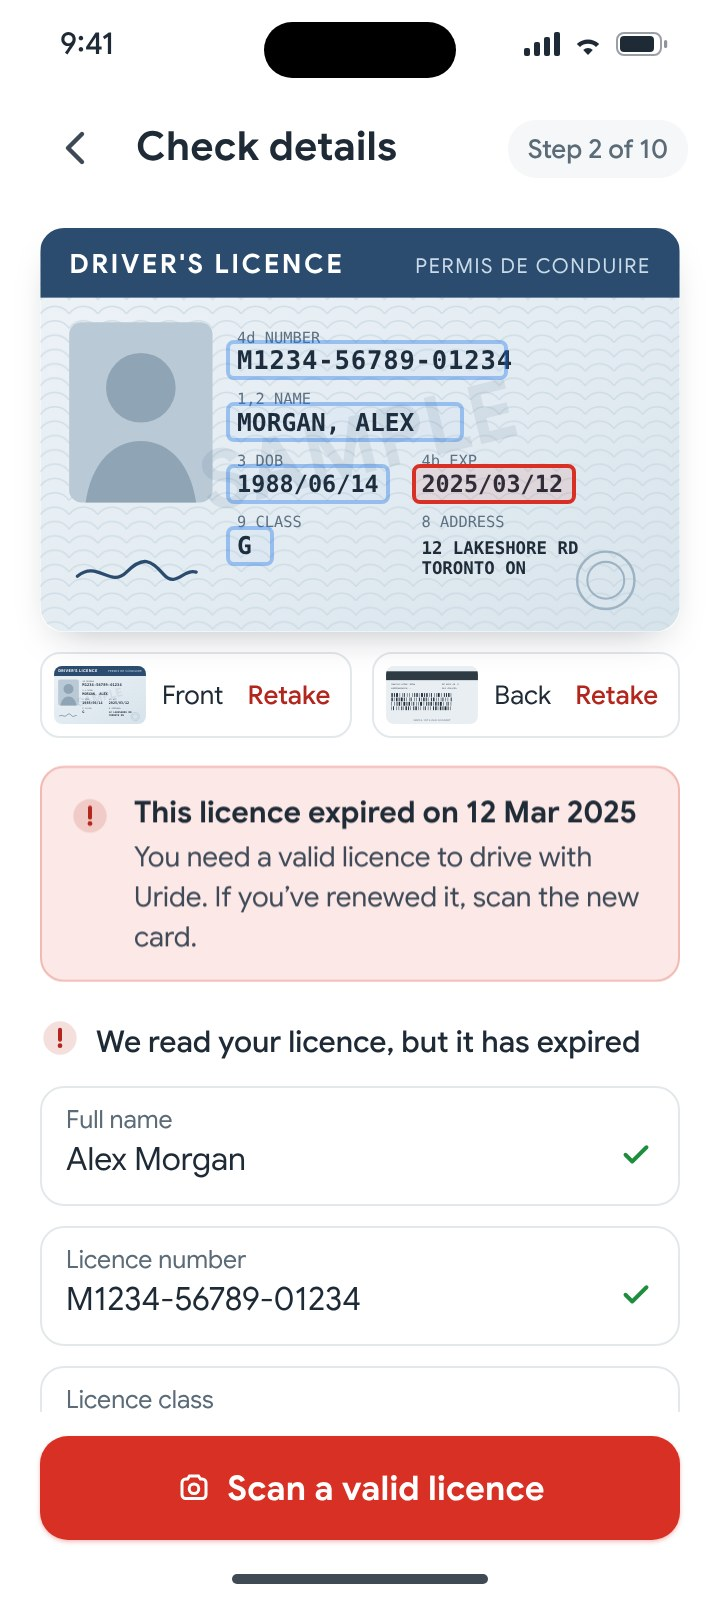
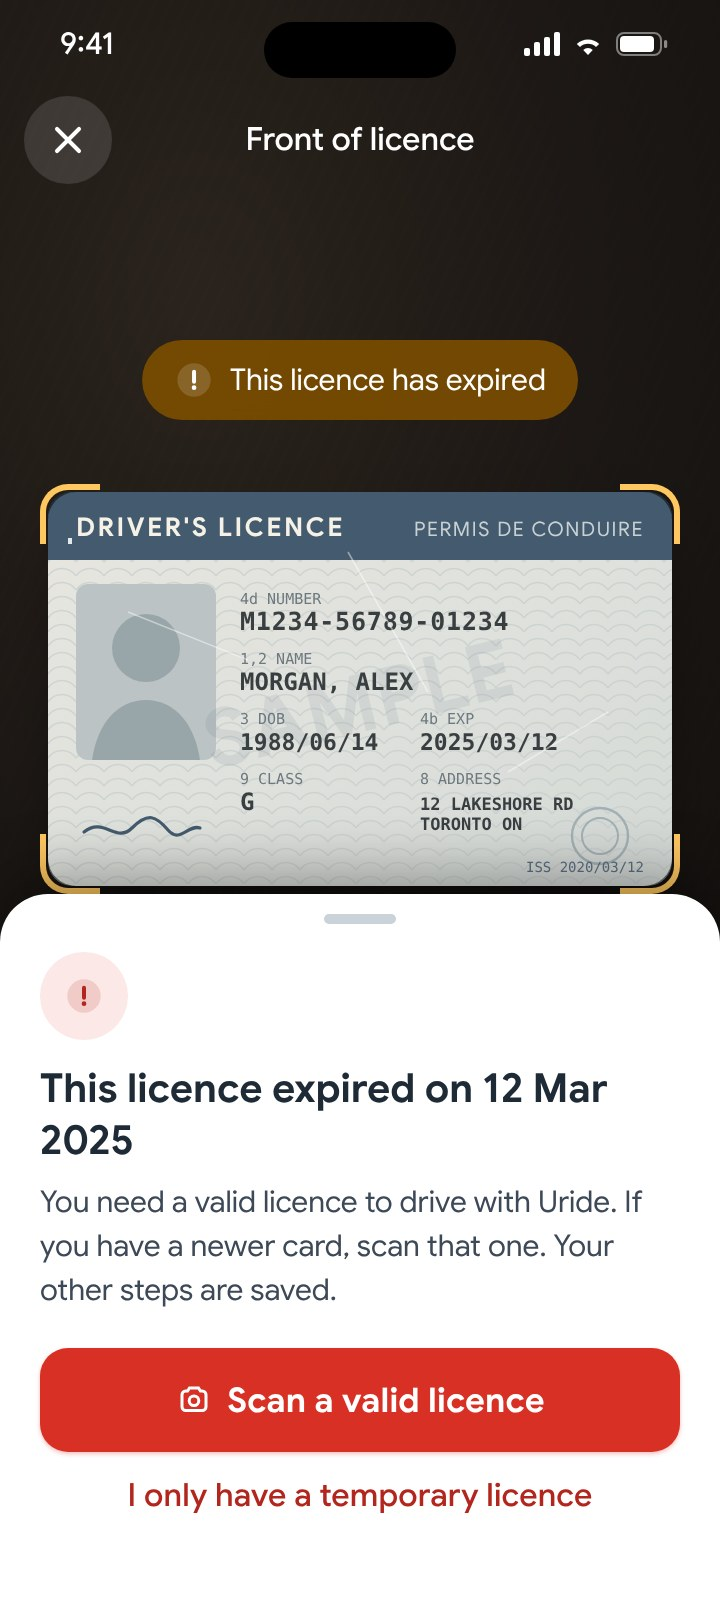
Uride prototype: expired card caught after front photo, hologram reason for unclear digit, Under review screen
Claude-Session: https://claude.ai/code/session_018u1JwWcJ2tKeLwzPZHSzSa

diff --git a/uride-onboarding/index.html b/uride-onboarding/index.html
@@ -75,6 +75,48 @@ input{font:inherit;color:inherit}
 .hole{position:absolute;left:24px;top:var(--gt,228px);width:312px;height:197px;border-radius:14px;box-shadow:0 0 0 1200px rgba(0,0,0,.52);z-index:3;pointer-events:none}
 .item .chev{color:var(--hint);display:flex}
 .item{will-change:transform}
+
+.face .art{position:absolute;inset:0}
+/* expired sheet over the camera */
+.xsheet{position:absolute;left:0;right:0;bottom:0;z-index:30;background:#fff;border-radius:24px 24px 0 0;padding:10px 20px 30px;box-shadow:0 -10px 30px rgba(0,0,0,.35);color:var(--body)}
+.xsheet .grab{width:36px;height:5px;border-radius:3px;background:var(--line-strong);margin:0 auto 14px}
+.xsheet .xs-ic{width:44px;height:44px;border-radius:50%;background:var(--red-soft);color:var(--red-text);display:grid;place-items:center;margin-bottom:12px}
+.xsheet h3{font-size:20px;line-height:26px;color:var(--ink);font-weight:700}
+.xsheet p{font-size:15px;line-height:22px;margin:6px 0 18px}
+.xsheet .btn{width:100%}
+.pill .spinner{width:14px;height:14px;border-width:2px}
+/* under review */
+.ur{display:flex;flex-direction:column;align-items:center;text-align:center;padding-top:8px}
+.ur > *{flex-shrink:0}
+.urhero{position:relative;width:176px;height:176px;margin:6px 0 18px;display:grid;place-items:center}
+.urhero .halo{position:absolute;inset:14px;border-radius:50%;background:radial-gradient(closest-side,rgba(26,95,180,.16),rgba(26,95,180,0))}
+.urring{position:absolute;inset:0}
+.urring .arc{transform-origin:88px 88px}
+.urcard{position:relative;width:112px;height:71px;border-radius:8px;box-shadow:0 10px 24px -10px rgba(16,24,40,.45)}
+.urcard .face{position:absolute;inset:0;border-radius:8px;overflow:hidden}
+.urbadge{position:absolute;right:-12px;bottom:-12px;width:32px;height:32px;border-radius:50%;background:var(--blue);color:#fff;display:grid;place-items:center;border:3px solid #fff}
+.ur.compact .urhero{width:140px;height:140px;margin:0 0 12px}
+.ur.compact .urring{width:140px;height:140px}
+.ur.compact .urcard{transform:scale(.85)}
+.ur.compact .urp{font-size:14px;line-height:20px}
+.ur.compact .urtl{margin-top:16px;gap:12px}
+.urt{font-size:22px;line-height:28px;color:var(--ink);font-weight:700}
+.urp{font-size:15px;line-height:22px;margin-top:8px;max-width:300px}
+.urtl{position:relative;align-self:stretch;text-align:left;margin:22px 4px 0;display:flex;flex-direction:column;gap:16px}
+.urtl .line{position:absolute;left:11px;top:14px;bottom:14px;width:2px;background:var(--line)}
+.urtl .line i{position:absolute;inset:0 0 50% 0;background:var(--green);transform-origin:top}
+.ti{display:flex;gap:12px;align-items:flex-start;position:relative}
+.ti .d{width:24px;height:24px;border-radius:50%;flex:none;display:grid;place-items:center;background:#fff;border:2px solid var(--line);position:relative}
+.ti.done .d{background:var(--green);border-color:var(--green);color:#fff}
+.ti.done .d svg{width:14px;height:14px}
+.ti.now .d{border-color:var(--blue)}
+.ti.now .d::after{content:"";width:8px;height:8px;border-radius:50%;background:var(--blue)}
+.ti.now .d i{position:absolute;inset:6px;border-radius:50%;background:var(--blue)}
+.ti b{display:block;font-size:15px;color:var(--ink);font-weight:500}
+.ti small{font-size:13px;color:var(--muted)}
+.notify{margin-top:20px;align-self:stretch;height:48px;border-radius:12px;border:1px solid var(--line);display:flex;align-items:center;justify-content:center;gap:8px;font-size:15px;font-weight:500;color:var(--ink);transition:background calc(300ms*var(--k)),border-color calc(300ms*var(--k))}
+.notify.on{background:var(--green-soft);border-color:#A6D8B4;color:var(--green)}
+.notify .bell{display:inline-block;transform-origin:50% 10%}
 /* director menu */
 .dir{position:fixed;inset:0;z-index:200;background:rgba(16,20,24,.45);display:none;align-items:flex-end;justify-content:center}
 .dir.on{display:flex}
@@ -269,7 +311,7 @@ body.rec.bare .statusbar,body.rec.bare .island,body.rec.bare .homebar{display:no
 body.rec.bare .top{padding-top:16px}
 body.rec.bare .cam .topbar{top:14px}
 body.rec.bare .toast{top:12px}
-body.rec.bare .haptic{top:auto;bottom:6px}
+body.rec.bare .haptic{top:6px}
 @media (max-width:520px){.page{padding:20px 8px 40px;gap:20px}.intro h1{font-size:22px;line-height:28px}}
 @media (prefers-reduced-motion:reduce){:root{--k:.01}}
 </style>
@@ -398,7 +440,7 @@ const ICON = {
 };
 
 /* ================= sample licence (fictional) ================= */
-function cardFront(exp){
+function cardFront(exp,o={}){
   return `<svg viewBox="0 0 312 197" width="100%" height="100%" xmlns="http://www.w3.org/2000/svg" aria-label="Sample driver licence, front">
   <defs>
     <linearGradient id="cf" x1="0" y1="0" x2="1" y2="1"><stop offset="0" stop-color="#EEF3F7"/><stop offset=".55" stop-color="#E3ECF2"/><stop offset="1" stop-color="#D7E3EB"/></linearGradient>
@@ -429,6 +471,12 @@ function cardFront(exp){
   <path d="M18 170c10-8 16 6 24-2s12-6 18 1 10-3 16-1" stroke="#2B4C6F" stroke-width="1.6" fill="none" stroke-linecap="round"/>
   <text x="156" y="120" text-anchor="middle" font-family="Google Sans,Arial" font-size="40" font-weight="700" fill="#2B4C6F" opacity=".09" transform="rotate(-14 156 110)">SAMPLE</text>
   <circle cx="276" cy="172" r="14" fill="none" stroke="#9DB3C4" stroke-width="1.2"/><circle cx="276" cy="172" r="9" fill="none" stroke="#9DB3C4" stroke-width="1"/>
+  ${o.old?`<rect width="312" height="197" rx="12" fill="#C8A867" opacity=".16"/>
+  <path d="M40 60l60 24M150 30l40 70M230 140l50-30" stroke="#fff" stroke-width=".8" opacity=".45"/>
+  <text x="298" y="190" text-anchor="end" font-family="ui-monospace,Menlo,monospace" font-size="7" fill="#5D7183">ISS 2020/03/12</text>`:''}
+  ${o.holo?`<defs><linearGradient id="hg" x1="0" y1="0" x2="1" y2="1"><stop offset="0" stop-color="#9FE3FF"/><stop offset=".35" stop-color="#F7C6FF"/><stop offset=".65" stop-color="#FFF3A8"/><stop offset="1" stop-color="#A8FFD6"/></linearGradient></defs>
+  <ellipse cx="211" cy="125" rx="13" ry="10" fill="url(#hg)" opacity=".85"/><ellipse cx="211" cy="125" rx="13" ry="10" fill="none" stroke="#fff" stroke-width=".8" opacity=".9"/>
+  <path d="M201 131l22-14M204 134l18-12" stroke="#fff" stroke-width="1" opacity=".7"/>`:''}
 </svg>`;
 }
 function cardBack(){
@@ -448,17 +496,18 @@ function cardBack(){
 
 /* ================= scenarios ================= */
 const SCEN = {
-  story:  {name:'Full story', note:'One take: glare on the front, shaky hands on the back, one unclear field.', dot:'#1F2A37', f:{glare:'front', blur:'back', unsure:1}},
+  story:  {name:'Full story', note:'One take: an expired card first, then glare, shaky hands, one unclear digit and the review screen.', dot:'#1F2A37', f:{expiredFirst:1, glare:'front', blur:'back', unsure:1}},
   happy:  {name:'Happy path', note:'Card found, captured and read without help.', dot:'#1E8E3E', f:{}},
   glare:  {name:'Glare on the card', note:'A light reflection hides the text. The app asks to tilt.', dot:'#E8A317', f:{glare:'front'}},
   blur:   {name:'Shaky hands', note:'The image is blurry, so capture waits until it is sharp.', dot:'#E8A317', f:{blur:'front'}},
-  unsure: {name:'Unclear field', note:'OCR is not sure about one value. The driver confirms it.', dot:'#E8A317', f:{unsure:1}},
-  expired:{name:'Expired licence', note:'The read works, but the licence is no longer valid.', dot:'#D93025', f:{expired:1}},
+  unsure: {name:'Unclear digit', note:'A hologram covers the last digit of the year. The driver types it in.', dot:'#E8A317', f:{unsure:1}},
+  expired:{name:'Expired licence', note:'Caught right after the front photo, before the driver flips the card.', dot:'#D93025', f:{expired:1}},
   manual: {name:'Manual entry', note:'No camera or the driver prefers typing. Live format checks.', dot:'#6E62A5', f:{manual:1}},
 };
 let scenario='happy';
 const F = () => SCEN[scenario].f;
-const EXP = () => F().expired ? '2025/03/12' : '2029/06/14';
+let cardOld=false;                 // the card in front of the camera is the old, expired one
+const EXP = () => cardOld ? '2025/03/12' : '2029/06/14';
 
 /* ================= spec panel ================= */
 const sp = k => `spring ${k}`;
@@ -471,7 +520,8 @@ const SPEC = {
   flip:{t:'Now the back', d:'The card turns over in place, so the driver understands what to do without reading anything.', why:'<b>Show, don’t tell:</b> one movement replaces a paragraph of instructions.', rows:[['Card flip','900ms',sp('· bounce .06')],['Hint cross-fade','240ms','standard']], hap:'Light tap when the flip prompt appears.'},
   read:{t:'Reading the licence', d:'A scan line passes over the photo. Each value lights up on the card at the moment it lands in its field, so the driver sees where every value came from.', why:'<b>Trust:</b> linking the box on the card to the field makes autofill feel checkable, not magic.', rows:[['Photo hand-off','550ms',sp('· bounce 0')],['Scan line','1500ms','ease-in-out'],['Field fill stagger','260ms each','emphasized decel'],['Tick','400ms',sp('· bounce .25')]], hap:'Success when all fields are filled.'},
   unsure:{t:'One value needs a check', d:'OCR is not sure about the expiry date. Only that field turns amber and says why. The driver taps Fix, the number keypad opens with the year almost filled, types the last digit and presses Enter. Continue unlocks.', why:'<b>Rule:</b> never silently guess a legal value. Ask only about the one field we are unsure of.', rows:[['Scroll to the field','smooth','browser default'],['Fix button nudge','2 × 700ms','ease-in-out'],['Edit focus ring','200ms','standard'],['Button unlocks','300ms','standard']], hap:'Light tap on Done.'},
-  expired:{t:'Licence has expired', d:'The scan worked, so we say what is wrong with the document, not with the photo. One clear action: scan a valid licence.', why:'<b>2024 problem:</b> the expired warning could be closed and Continue still worked.', rows:[['Banner in','400ms','emphasized decel'],['Field shake','420ms','ease-in-out, 3 swings']], hap:'Error (three short taps).'},
+  expired:{t:'Licence has expired', d:'We read the date right after the front photo, so the driver does not flip a card we cannot accept. The message is about the document, not the photo. One clear action: scan a valid licence. A temporary paper licence has its own path.', why:'<b>2024 problem:</b> the expired warning could be closed and Continue still worked.', rows:[['Checking the front','1100ms','spinner'],['Sheet rises','600ms',sp('· bounce 0')],['Old card leaves','520ms','emphasized accel'],['New card comes in','1200ms','emphasized decel']], hap:'Error (three short taps), once.'},
+  review:{t:'Under review: a calm wait', d:'The photo the driver just took carries over and settles in the middle. While we check, the motion is slow on purpose: one turn every 6 seconds and a halo that breathes. The timeline draws itself and says what happens next and when.', why:'<b>Why it matters:</b> waiting is where people drop off. Saying how long, what happens next and letting them keep going turns the wait into progress.', rows:[['Photo carries over','700ms',sp('· bounce 0')],['Badge','400ms',sp('· bounce .25')],['Ring turn','6s loop','linear'],['Halo breath','5s loop','ease-in-out'],['Timeline draws','1100ms','emphasized decel'],['Steps appear','330ms apart','emphasized decel']], hap:'Success on arrival. Light tap on “Notify me”.'},
   manual:{t:'Manual entry', d:'Real inputs. The licence number formats itself as you type, dates use the format printed on the card, and errors appear when you leave a field, not on every key.', why:'<b>Accessibility:</b> labels above fields, 16px text, and errors in words, not only in red.', rows:[['Focus ring','200ms','standard'],['Error reveal','240ms','emphasized decel'],['Button unlocks','300ms','standard']], hap:'None.'},
   saved:{t:'Saved and back to the list', d:'You come back to the list first, then the licence item changes to “In review”, the ring fills and the highlight moves to the next step. Each change happens one after another, so the eye can follow it.', why:'<b>2024 problem:</b> no save and resume, and most drop-offs happened at document upload.', rows:[['Pop back','550ms',sp('· bounce 0')],['Status swap','160ms out · 400ms in',sp('· bounce .25')],['Ring fill','900ms','ease-in-out'],['Toast','550ms in · 3.2s · 250ms out',sp('· bounce .12')]], hap:'Success.'},
 };
@@ -530,7 +580,7 @@ async function toast(html){
 }
 
 /* ---------- touch feedback: press < 100 ms, spring release ---------- */
-const PRESSABLE='.btn,.item,.iconbtn,.fix,.thumb button,.shutter,#toscan,.slot';
+const PRESSABLE='.btn,.item,.iconbtn,.fix,.thumb button,.shutter,#toscan,.slot,.notify';
 const ratio=()=>screen.getBoundingClientRect().width/screen.offsetWidth;
 function tapRing(x,y){
   const d=document.createElement('div'); d.className='tap'; d.style.left=x+'px'; d.style.top=y+'px'; screen.appendChild(d);
@@ -644,12 +694,13 @@ function setPill(p,cls,html){
 function setHint(el,txt){ el.textContent=txt; anim(el,[{opacity:0},{opacity:1}],240,EASE.std); }
 const DRIFT_FRONT=[{transform:'translate(0,0) rotate(0deg)'},{transform:'translate(-2px,1.5px) rotate(-.5deg)'},{transform:'translate(1.5px,-1px) rotate(.4deg)'},{transform:'translate(0,0) rotate(0deg)'}];
 const DRIFT_BACK=DRIFT_FRONT.map(f=>({transform:'rotateY(180deg) '+f.transform}));
-async function camera(){
+async function camera(retry=false){
   const t=RUN; const f=F();
+  cardOld = !retry && !!(f.expired || f.expiredFirst);
   spec('camera');
   const html=`<div class="cam">
     <div class="feed"></div><div class="grain"></div>
-    <div class="cardwrap" id="cw"><div class="card3d" id="c3"><div class="face front">${cardFront(EXP())}<div class="glare" id="gl"><i class="sheen"></i><i class="core"></i></div></div><div class="face back">${cardBack()}</div></div></div>
+    <div class="cardwrap" id="cw"><div class="card3d" id="c3"><div class="face front"><div class="art">${cardFront(EXP(),{old:cardOld,holo:f.unsure&&!cardOld})}</div><div class="glare" id="gl"><i class="sheen"></i><i class="core"></i></div></div><div class="face back">${cardBack()}</div></div></div>
     <div class="hole"></div>
     <div class="topbar"><button class="iconbtn" id="cx" aria-label="Close camera">${ICON.close}</button><b id="side">Front of licence</b><span style="width:44px"></span></div>
     <div class="pill" id="pill">Place the front of your licence in the frame</div>
@@ -673,6 +724,19 @@ async function camera(){
   await anim(c3,[{transform:'translate(30px,260px) rotate(-12deg) scale(.86)'},{transform:'translate(0,0) rotate(0deg) scale(1)'}],1200,EASE.decel);
   if(!alive(t))return;
   let drift=c3.animate(DRIFT_FRONT,{duration:5000*K,iterations:Infinity,easing:'ease-in-out'});
+  if(cardOld){
+    await lockAndCapture(v,drift,'front',t); if(!alive(t))return;
+    const ok = await expiredSheet(v,t); if(!alive(t)||!ok) return;
+    // the old card leaves, the new one comes in
+    await anim(cwr,[{transform:'none',opacity:1},{transform:'translate(-40px,280px) rotate(10deg)',opacity:0}],520,EASE.accel); if(!alive(t))return;
+    cwr.getAnimations().forEach(a=>a.cancel()); c3.getAnimations().forEach(a=>a.cancel());
+    cardOld=false; $('.art',v).innerHTML=cardFront(EXP(),{holo:f.unsure});
+    gd.classList.remove('locked','warn'); anim($('#prog',v),[{strokeDashoffset:0},{strokeDashoffset:220}],300,EASE.std);
+    setPill(pill,'',`<span>Place your current licence in the frame</span>`); setHint(ch,'Use a dark surface and avoid direct light');
+    await wait(500); if(!alive(t))return;
+    await anim(c3,[{transform:'translate(30px,260px) rotate(-12deg) scale(.86)'},{transform:'translate(0,0) rotate(0deg) scale(1)'}],1200,EASE.decel); if(!alive(t))return;
+    drift=c3.animate(DRIFT_FRONT,{duration:5000*K,iterations:Infinity,easing:'ease-in-out'});
+  }
   await issues(v,'front',drift,t); if(!alive(t))return;
   await lockAndCapture(v,drift,'front',t); if(!alive(t))return;
   // flip
@@ -690,6 +754,29 @@ async function camera(){
   await lockAndCapture(v,drift,'back',t); if(!alive(t))return;
   await wait(300); if(!alive(t))return;
   reading();
+}
+/* expired: say it right after the front photo, so the driver does not flip a card we cannot accept */
+async function expiredSheet(v,t){
+  const pill=$('#pill',v), gd=$('#gd',v);
+  spec('expired');
+  setPill(pill,'',`<span class="spinner" style="border-color:rgba(255,255,255,.25);border-top-color:#fff"></span><span>Checking the front…</span>`);
+  await wait(1100); if(!alive(t)) return false;
+  gd.classList.remove('locked'); gd.classList.add('warn');
+  setPill(pill,'warn',`${ICON.alert}<span>This licence has expired</span>`);
+  haptic('error');
+  const sh=document.createElement('div'); sh.className='xsheet';
+  sh.innerHTML=`<div class="grab"></div>
+    <div class="xs-ic">${ICON.alert}</div>
+    <h3>This licence expired on 12 Mar 2025</h3>
+    <p>You need a valid licence to drive with Uride. If you have a newer card, scan that one. Your other steps are saved.</p>
+    <button class="btn primary" id="exSc">${ICON.cam} Scan a valid licence</button>
+    <button class="btn ghost" id="exTmp">I only have a temporary licence</button>`;
+  $('.cam',v).appendChild(sh);
+  anim(sh,[{transform:'translateY(105%)'},{transform:'none'}],SPR.sheet);
+  return new Promise(res=>{
+    $('#exSc',sh).onclick=async()=>{ await anim(sh,[{transform:'none'},{transform:'translateY(105%)'}],280,EASE.accel); sh.remove(); res(true); };
+    $('#exTmp',sh).onclick=()=>toast(`<span><b>Temporary licence:</b> you upload the paper copy and our team checks it by hand. (Not part of this prototype.)</span>`);
+  });
 }
 async function issues(v,side,drift,t){
   const f=F(), gd=$('#gd',v), pill=$('#pill',v), ch=$('#ch',v), gl=$('#gl',v), cw=$('#cw',v);
@@ -755,9 +842,9 @@ async function reading(){
   const t=RUN, f=F(); spec('read');
   const html=`<div class="top"><button class="iconbtn" id="bk" aria-label="Back">${ICON.back}</button><h1>Check details</h1><span class="stepper">Step 2 of 10</span></div>
   <div class="body">
-    <div class="scanimg" id="si"><div class="face">${cardFront(EXP())}</div><div class="scanline" id="sl"></div></div>
+    <div class="scanimg" id="si"><div class="face">${cardFront(EXP(),{holo:f.unsure})}</div><div class="scanline" id="sl"></div></div>
     <div class="thumbs">
-      <div class="thumb"><div class="mini"><div class="face">${cardFront(EXP())}</div></div>Front<button class="rt">Retake</button></div>
+      <div class="thumb"><div class="mini"><div class="face">${cardFront(EXP(),{holo:f.unsure})}</div></div>Front<button class="rt">Retake</button></div>
       <div class="thumb"><div class="mini"><div class="face">${cardBack()}</div></div>Back<button class="rt">Retake</button></div>
     </div>
     <div id="bn"></div>
@@ -767,7 +854,7 @@ async function reading(){
   <div class="foot"><button class="btn primary" id="go" disabled>Looks right, continue</button></div>`;
   const v=await show(html,'handoff',false);
   $('#bk',v).onclick=()=>{RUN++;licenceIntro('pop');};
-  v.querySelectorAll('.rt').forEach(b=>b.onclick=()=>{RUN++;camera();});
+  v.querySelectorAll('.rt').forEach(b=>b.onclick=()=>{RUN++;camera(true);});
   const si=$('#si',v), sl=$('#sl',v), go=$('#go',v);
   // shared-element hand-off: the photo moves up from where the card was in the frame
   anim(si,[{transform:'translateY(150px) scale(1.06)'},{transform:'none'}],SPR.push);
@@ -777,7 +864,7 @@ async function reading(){
   const scale=si.clientWidth/312;
   for(const x of FIELDS){
     await wait(x===FIELDS[0]?420:260); if(!alive(t))return;
-    const unsure = f.unsure && x.k==='exp', bad = f.expired && x.k==='exp';
+    const unsure = f.unsure && x.k==='exp', bad = cardOld && x.k==='exp';
     const b=document.createElement('div'); b.className='ocrbox'+(unsure?' unsure':'')+(bad?' bad':'');
     Object.assign(b.style,{left:x.box[0]*scale-3+'px',top:x.box[1]*scale-3+'px',width:x.box[2]*scale+6+'px',height:x.box[3]*scale+6+'px'});
     si.appendChild(b);
@@ -785,7 +872,7 @@ async function reading(){
     const fe=$(`[data-k="${x.k}"]`,v), val=$('.v',fe);
     val.textContent = unsure ? '14 Jun 202?' : bad ? '12 Mar 2025' : x.v;
     anim(val,[{opacity:0,transform:'translateY(6px)'},{opacity:1,transform:'none'}],360,EASE.decel);
-    if(unsure){ fe.classList.add('unsure'); $('.note',fe).textContent='We couldn’t read the last digit. Please check.'; $('.ok',fe).outerHTML=`<button class="fix" id="fix">Fix</button>`; }
+    if(unsure){ fe.classList.add('unsure'); $('.note',fe).textContent='A hologram covers the last digit of the year. Please check.'; $('.ok',fe).outerHTML=`<button class="fix" id="fix">Fix</button>`; }
     else if(bad){ fe.classList.add('bad'); $('.note',fe).textContent='Expired on 12 Mar 2025'; $('.ok',fe).outerHTML=`<span style="color:var(--red-text)">${ICON.alert}</span>`; }
     else { fe.classList.add('filled'); anim($('.ok',fe),[{opacity:0,transform:'scale(.4)'},{opacity:1,transform:'scale(1)'}],SPR.pop); }
   }
@@ -794,7 +881,7 @@ async function reading(){
   const stt=$('#stt',v);
   const status=(html)=>{ stt.innerHTML=html; anim(stt,[{opacity:0,transform:'translateY(3px)'},{opacity:1,transform:'none'}],280,EASE.decel); };
   const enable=()=>{ go.disabled=false; anim(go,[{filter:'saturate(.2) brightness(1.4)'},{filter:'none'}],300,EASE.std); };
-  if(f.expired){
+  if(cardOld){
     spec('expired');
     status(`<span style="color:var(--red-text)">${ICON.alert}</span>We read your licence, but it has expired`);
     const bn=$('#bn',v);
@@ -803,7 +890,7 @@ async function reading(){
     anim($('[data-k="exp"]',v),[{transform:'translateX(0)'},{transform:'translateX(-6px)'},{transform:'translateX(5px)'},{transform:'translateX(-3px)'},{transform:'translateX(0)'}],420,EASE.inout,{delay:200*K});
     haptic('error');
     go.innerHTML=`${ICON.cam} Scan a valid licence`; enable();
-    go.onclick=()=>{ scenario='happy'; markScen(); camera(); };
+    go.onclick=()=>camera(true);
     return;
   }
   if(f.unsure){
@@ -849,7 +936,56 @@ async function reading(){
     haptic('success');
     enable();
   }
-  go.onclick=()=>checklist(true,'pop');
+  go.onclick=()=>underReview();
+}
+
+/* ================= under review: a calm wait ================= */
+async function underReview(){
+  const t=RUN; spec('review');
+  const C=2*Math.PI*78;
+  const html=`<div class="top"><span style="width:44px"></span><h1></h1></div>
+  <div class="body ur">
+    <div class="urhero">
+      <div class="halo"></div>
+      <svg class="urring" width="176" height="176" viewBox="0 0 176 176"><circle cx="88" cy="88" r="78" fill="none" stroke="#E6EBEE" stroke-width="4"/>
+        <circle class="arc" cx="88" cy="88" r="78" fill="none" stroke="url(#urg)" stroke-width="4" stroke-linecap="round" stroke-dasharray="${C*.28} ${C}"/>
+        <defs><linearGradient id="urg" x1="0" y1="0" x2="1" y2="1"><stop offset="0" stop-color="#1A5FB4" stop-opacity="0"/><stop offset="1" stop-color="#1A5FB4"/></linearGradient></defs></svg>
+      <div class="urcard"><div class="face">${cardFront('2029/06/14')}</div><span class="urbadge">${ICON.clock}</span></div>
+    </div>
+    <h2 class="urt">Licence sent for review</h2>
+    <p class="urp">We check it with the issuing office. It usually takes less than 24 hours, and you can keep going in the meantime.</p>
+    <div class="urtl"><span class="line"><i></i></span>
+      <div class="ti done"><span class="d">${ICON.check}</span><div><b>Sent</b><small>Today, 9:41</small></div></div>
+      <div class="ti now"><span class="d"><i></i></span><div><b>Checking your licence</b><small>Usually within 24 h</small></div></div>
+      <div class="ti"><span class="d"></span><div><b>We’ll let you know</b><small>Notification and email</small></div></div>
+    </div>
+    <button class="notify" id="nt"><span class="bell">🔔</span><span class="nl">Notify me when it’s done</span></button>
+  </div>
+  <div class="foot"><button class="btn primary" id="urGo">Continue registration</button><p class="help">8 steps left · about 15 min</p></div>`;
+  const v=await show(html,'fade');
+  if(screen.clientHeight<720) $('.ur',v).classList.add('compact');
+  $('#urGo',v).onclick=()=>checklist(true,'pop');
+  // the photo carries over from "Check details" and settles into the middle
+  anim($('.urcard',v),[{transform:'translateY(-150px) scale(2.1)',opacity:.6},{transform:'none',opacity:1}],SPR.settle);
+  anim($('.urbadge',v),[{transform:'scale(0)'},{transform:'scale(1)'}],SPR.pop.ms,SPR.pop.e,{delay:600*K});
+  // calm, slow motion while we wait: one turn every 6 s, a halo that breathes like a slow breath
+  $('.urring .arc',v).animate([{transform:'rotate(0deg)'},{transform:'rotate(360deg)'}],{duration:6000,iterations:Infinity,easing:'linear'});
+  $('.halo',v).animate([{transform:'scale(.92)',opacity:.35},{transform:'scale(1.06)',opacity:.7},{transform:'scale(.92)',opacity:.35}],{duration:5000,iterations:Infinity,easing:'ease-in-out'});
+  haptic('success');
+  // the timeline draws itself top to bottom, each step appears when the line reaches it
+  const line=$('.urtl .line i',v), items=[...v.querySelectorAll('.ti')];
+  items.forEach(i=>i.style.opacity=0);
+  await wait(500); if(!alive(t))return;
+  anim(line,[{transform:'scaleY(0)'},{transform:'scaleY(1)'}],1100,EASE.decel);
+  items.forEach((it,i)=>anim(it,[{opacity:0,transform:'translateY(6px)'},{opacity:1,transform:'none'}],420,EASE.decel,{delay:i*330*K}));
+  $('.ti.now .d i',v).animate([{transform:'scale(.7)',opacity:1},{transform:'scale(1.8)',opacity:0}],{duration:1800,iterations:Infinity,easing:'ease-out'});
+  const nt=$('#nt',v);
+  nt.onclick=()=>{
+    if(nt.classList.contains('on')) return;
+    nt.classList.add('on'); haptic('light');
+    anim($('.bell',nt),[{transform:'rotate(0)'},{transform:'rotate(-16deg)'},{transform:'rotate(12deg)'},{transform:'rotate(-6deg)'},{transform:'rotate(0)'}],600,EASE.inout);
+    const nl=$('.nl',nt); anim(nl,[{opacity:1},{opacity:0}],140,EASE.accel).then(()=>{ nl.textContent='We’ll notify you'; anim(nl,[{opacity:0,transform:'translateY(4px)'},{opacity:1,transform:'none'}],280,EASE.decel); });
+  };
 }
 
 /* ================= manual entry ================= */
@@ -884,7 +1020,7 @@ async function manual(){
   [num,cls,exp].forEach(i=>{ i.addEventListener('focus',()=>i.closest('.field').classList.add('editing')); i.addEventListener('blur',()=>i.closest('.field').classList.remove('editing')); });
   let was=false;
   function check(){ const ok=okNum(num.value)&&okCls(cls.value)&&okExp(exp.value)==='ok'; go.disabled=!ok; if(ok&&!was) anim(go,[{filter:'saturate(.2) brightness(1.4)'},{filter:'none'}],300,EASE.std); was=ok; }
-  go.onclick=()=>checklist(true,'pop');
+  go.onclick=()=>underReview();
   if(F().manual && AUTO){ await wait(700); if(!alive(t))return; await typeInto(num,'M12345678901234',t); await typeInto(cls,'G',t); await typeInto(exp,'20290614',t); }
 }
 async function typeInto(inp,str,t){
@@ -903,6 +1039,8 @@ async function waitFor(sel,t,timeout=40000){
 async function tapEl(sel,t,before=800){
   const el=await waitFor(sel,t);
   await wait(before); if(!alive(t)) throw 'stop';
+  const sc=el.closest('.body'); if(sc){ const er=el.getBoundingClientRect(), br=sc.getBoundingClientRect();
+    if(er.bottom>br.bottom||er.top<br.top){ el.scrollIntoView({block:'center',behavior:'smooth'}); await wait(600); } }
   const r=el.getBoundingClientRect(), s=screen.getBoundingClientRect(), q=ratio();
   tapRing((r.left+r.width/2-s.left)/q,(r.top+r.height/2-s.top)/q);
   pressDown(el); await new Promise(r=>setTimeout(r,130)); pressUp(el);
@@ -914,11 +1052,14 @@ async function autopilot(){
     await tapEl('[data-i="1"]',t,1600);
     if(f.manual){ await tapEl('#man',t,2200); await waitFor('#go:not([disabled])',t); await tapEl('#go',t,1000); return; }
     await tapEl('#scan',t,2400);
-    if(f.expired){ await waitFor('.banner.err',t); return; }
+    if(f.expired){ await waitFor('#exSc',t); return; }
+    if(f.expiredFirst){ await tapEl('#exSc',t,3200); }
     if(f.unsure){ await tapEl('#fix',t,1600); const inp=await waitFor('#ein',t); await wait(900); inp.value+='9'; inp.dispatchEvent(new Event('input'));
       await wait(700); inp.dispatchEvent(new KeyboardEvent('keydown',{key:'Enter'})); }
     await waitFor('#go:not([disabled])',t);
     await tapEl('#go',t,1500);
+    await tapEl('#nt',t,3200);
+    await tapEl('#urGo',t,2200);
   }catch(e){}
 }
 

diff --git a/uride-onboarding/before-after/index.html b/uride-onboarding/before-after/index.html
@@ -51,8 +51,8 @@ figcaption.new{color:#1E8E3E}
   <figure><img src="../ba/2026-expired.jpg" alt="2026 expired licence"><figcaption class="new">2026</figcaption></figure>
   <div class="notes"><h2>Errors that tell you what to do</h2><ol>
     <li><span><b>The expired warning could be closed,</b> and Continue still worked.</span></li>
-    <li><span><b>Now the problem is named:</b> which date, why it matters, one action.</span></li>
-    <li><span><b>The field that failed is marked</b> on the card and in the form.</span></li>
+    <li><span><b>Now it is caught right after the front photo,</b> so the driver does not flip a card we cannot accept.</span></li>
+    <li><span><b>The problem is named:</b> which date, why it matters, one action, and a path for a temporary licence.</span></li>
   </ol></div>
 </section>
 <div class="nav"></div>
